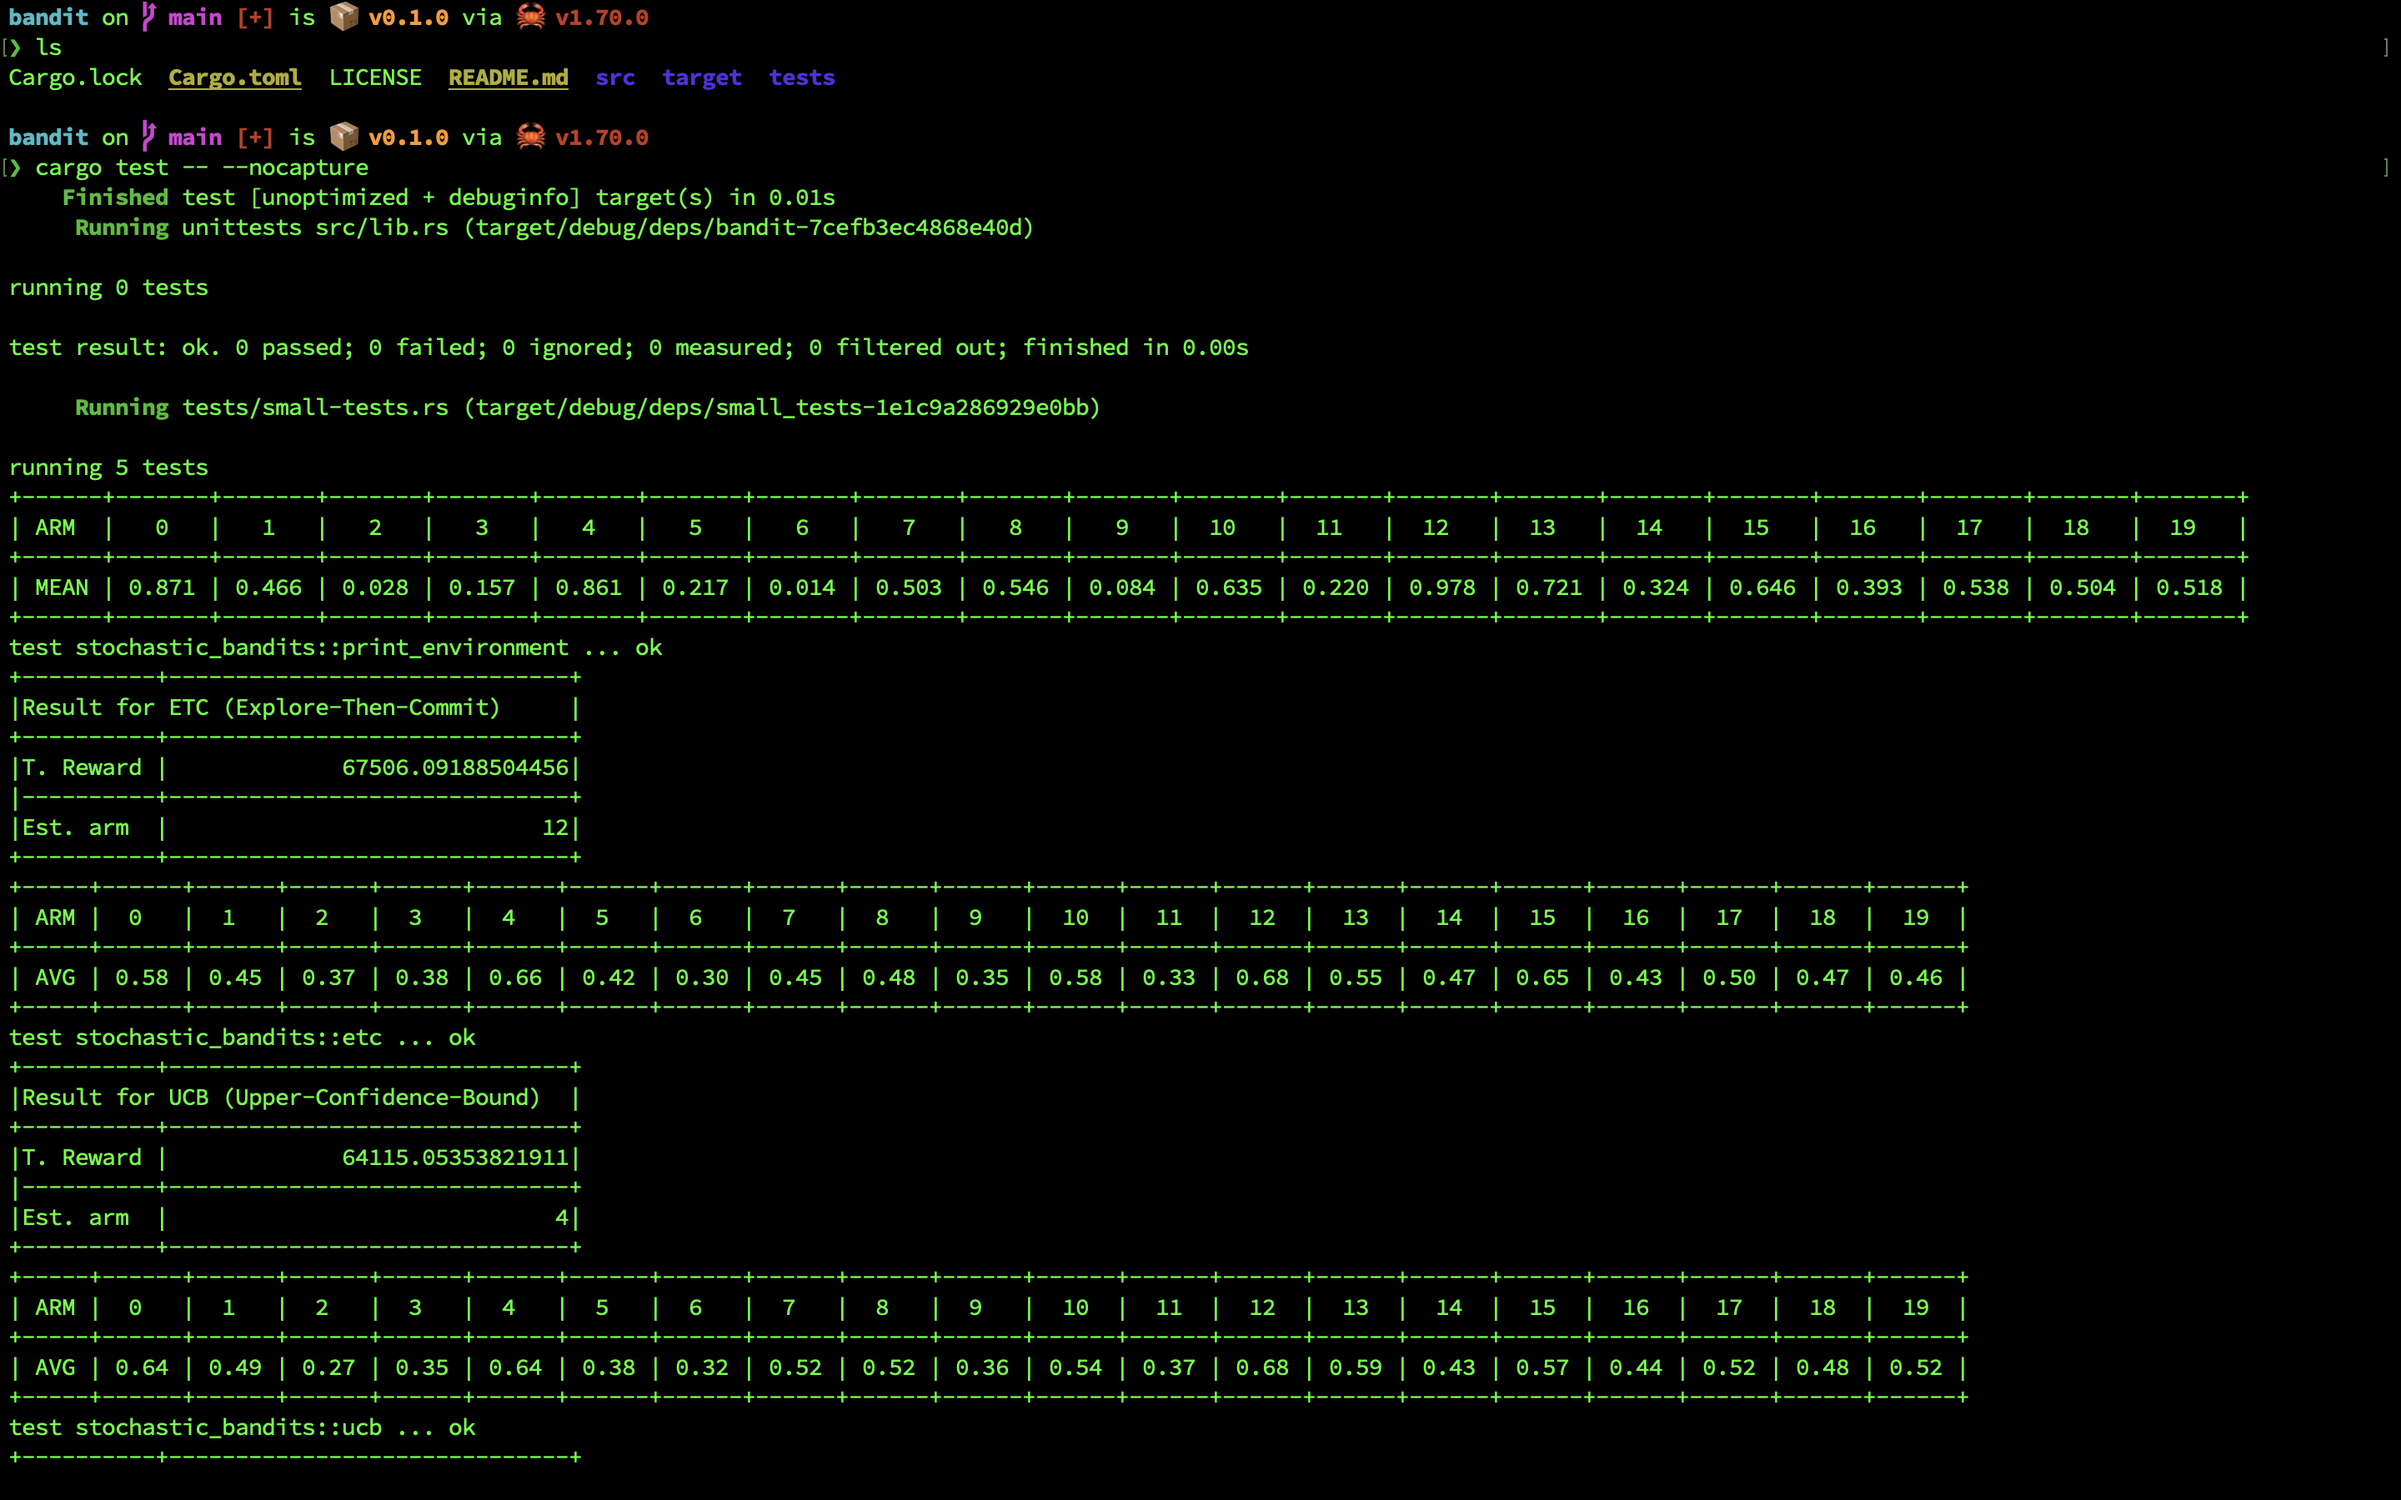
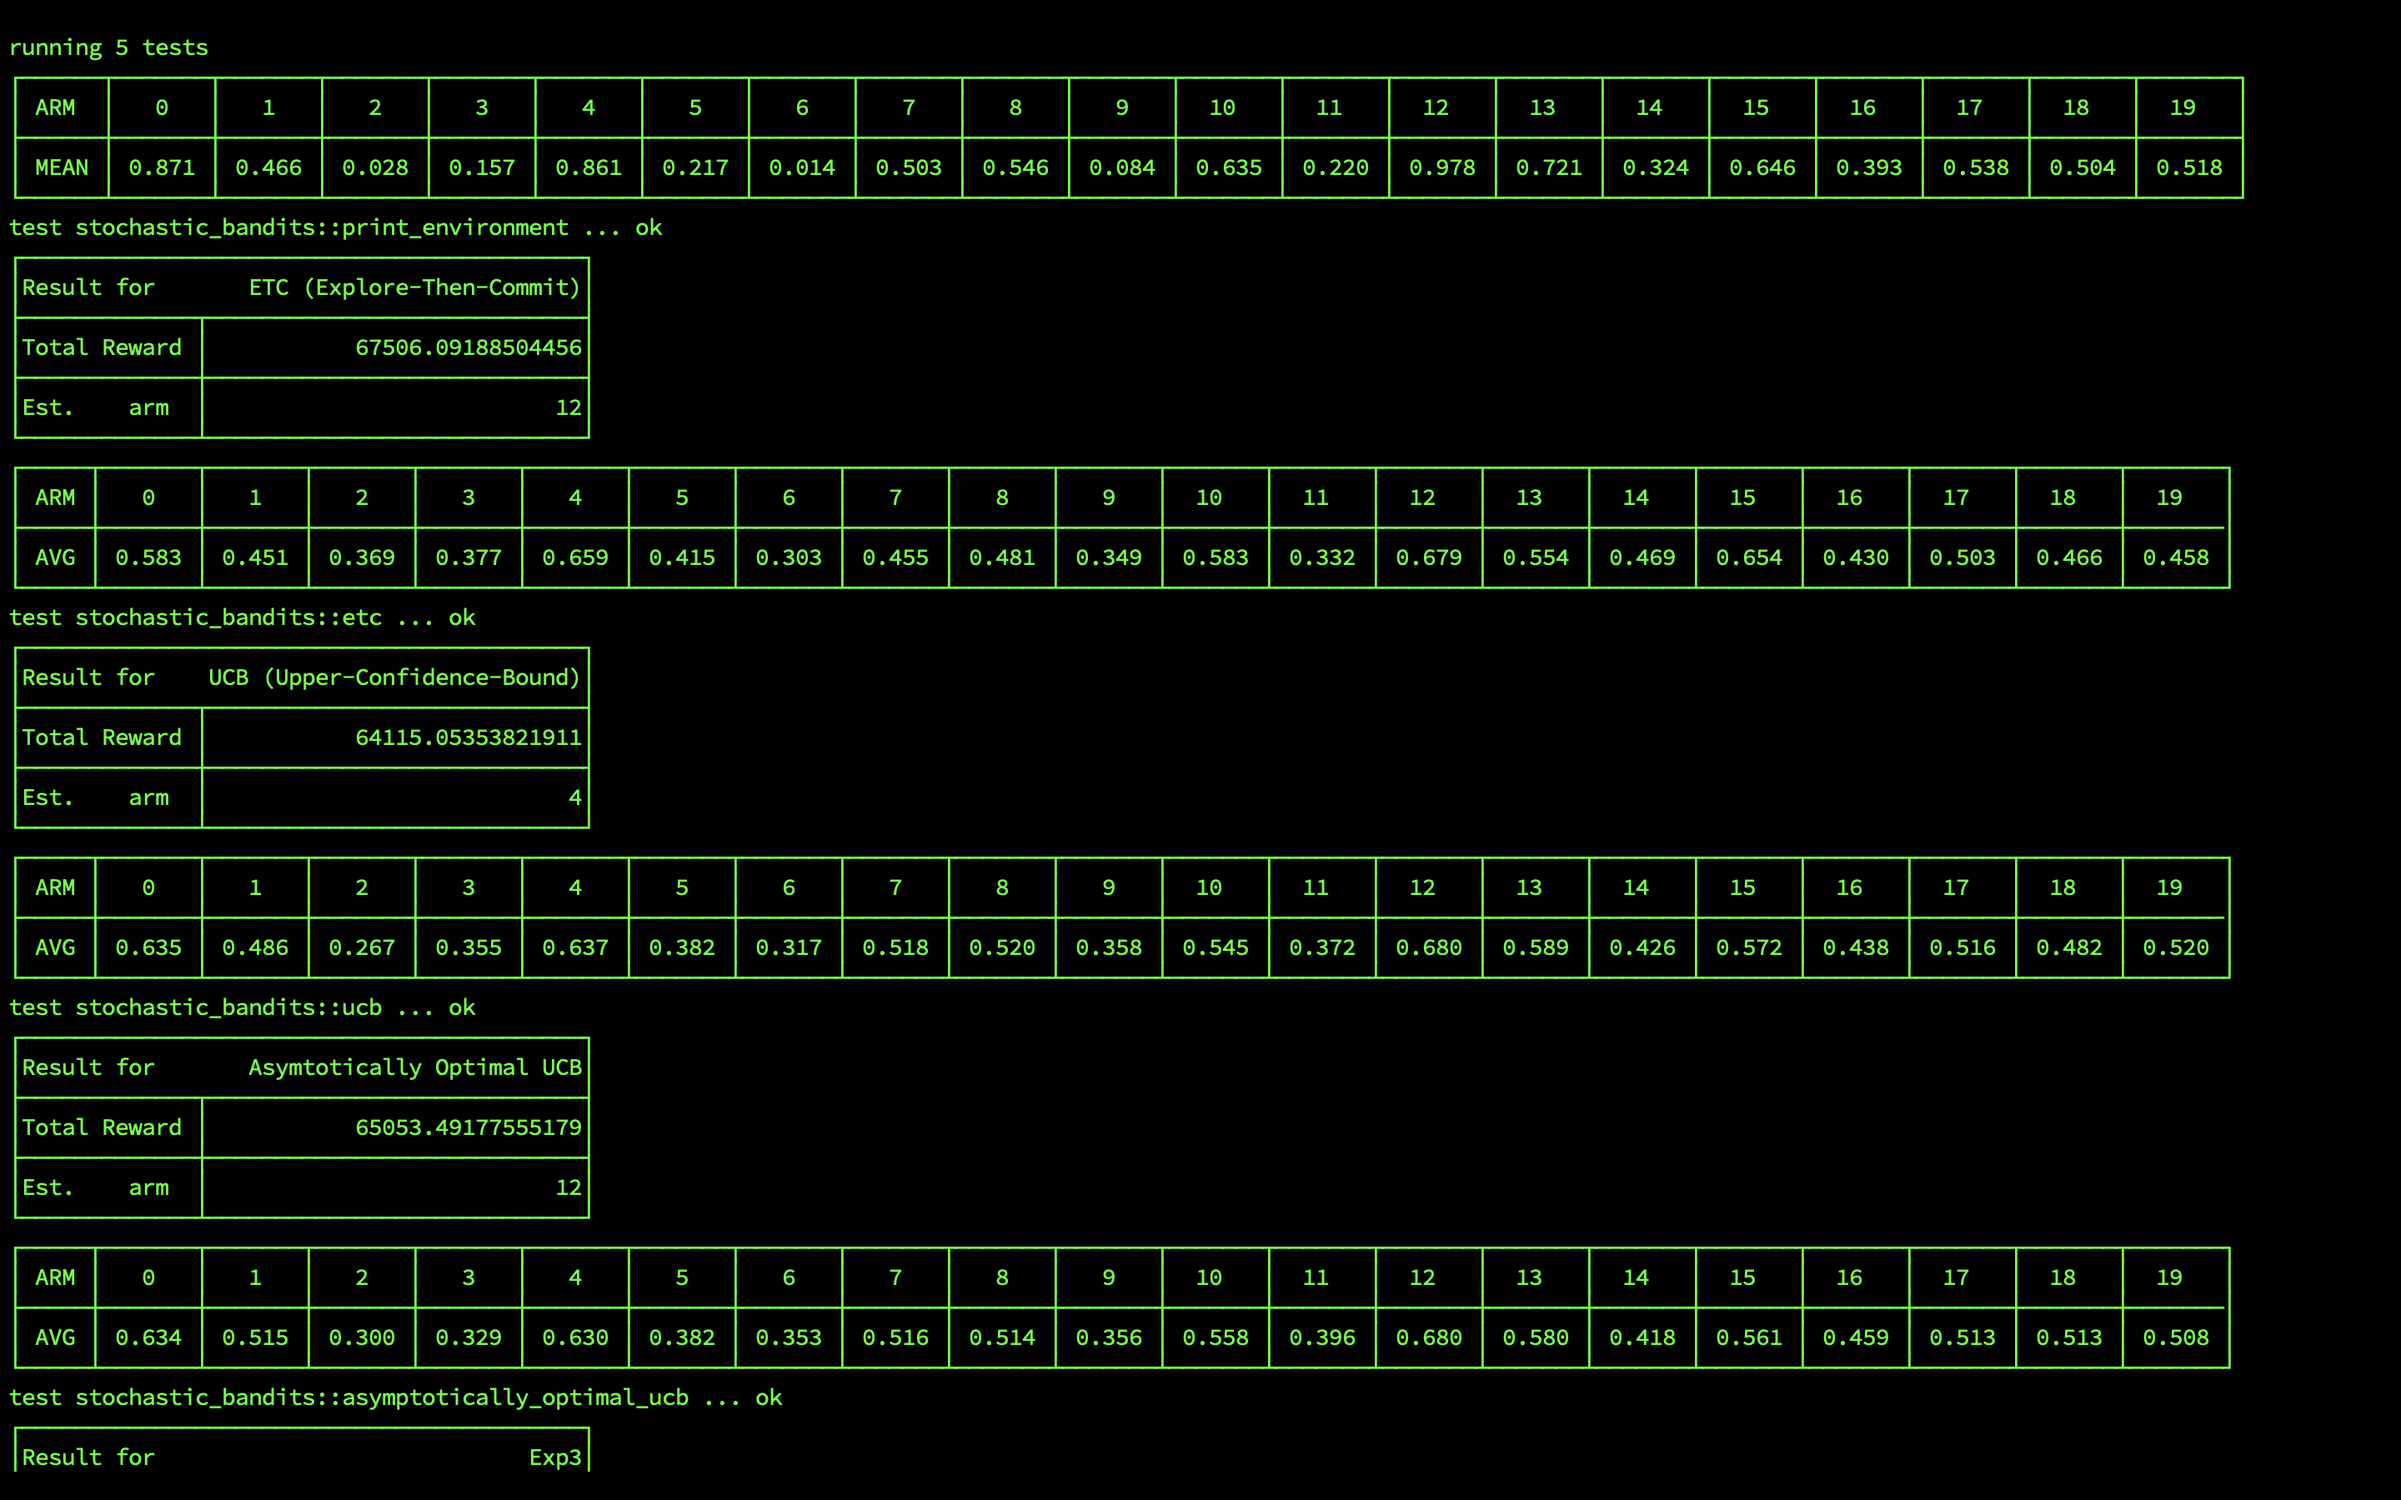
Update tablue design

Changed region(s): [[0.0, 0.0, 0.9375, 0.9956], [0.9062, 0.0622, 0.9375, 0.1244], [0.5, 0.2178, 0.5312, 0.2489]]

diff --git a/src/common.rs b/src/common.rs
@@ -122,22 +122,28 @@ impl Arms {
     /// Prints the empirical mean reward for each arm.
     pub fn summary(&self) {
         let n_arms = self.arms.len();
-        let header = (0..n_arms).map(|k| format!(" {k: ^4} "))
+        let header = (0..n_arms).map(|k| format!(" {k: ^5} "))
             .collect::<Vec<_>>()
-            .join("|");
+            .join("│");
 
-        let border = (0..n_arms).map(|_| "------")
-            .collect::<Vec<_>>()
-            .join("+");
         let content = self.empirical_means()
-            .map(|mean| format!(" {mean: >1.2} "))
+            .map(|mean| format!(" {mean: >1.3} "))
             .collect::<Vec<_>>()
-            .join("|");
-        println!("+-----+{border}+");
-        println!("| ARM |{header}|");
-        println!("+-----+{border}+");
-        println!("| AVG |{content}|");
-        println!("+-----+{border}+");
+            .join("│");
+        let toprule = (0..n_arms).map(|_| "───────")
+            .collect::<Vec<_>>()
+            .join("┬");
+        let midrule = (0..n_arms).map(|_| "───────")
+            .collect::<Vec<_>>()
+            .join("┼");
+        let botrule = (0..n_arms).map(|_| "───────")
+            .collect::<Vec<_>>()
+            .join("┴");
+        println!("┌─────┬{toprule}┐");
+        println!("│ ARM │{header:}│");
+        println!("├─────┼{midrule}│");
+        println!("│ AVG │{content}│");
+        println!("└─────┴{botrule}┘");
     }
 }
 

diff --git a/src/protocol.rs b/src/protocol.rs
@@ -1,7 +1,7 @@
 use crate::{Player, Environment};
 
 
-const WIDTH: usize = 30;
+const WIDTH: usize = 28;
 
 
 /// The bandit protocol.
@@ -19,16 +19,16 @@ pub fn run<P, E>(mut player: P, mut environment: E, horizon: usize)
     let cumulative_reward = player.cumulative_reward();
     let next_arm = player.choose(horizon+1);
 
-    let header = format!("Result for {name: <WIDTH$}");
-    println!("+----------+{:-<WIDTH$}+", "");
-    println!("|{header}|");
-    println!("+----------+{:-<WIDTH$}+", "");
-    let line = format!("T. Reward |{cumulative_reward: >WIDTH$}");
-    println!("|{line: <WIDTH$}|");
-    println!("|----------+{:-<WIDTH$}+", "");
-    let line = format!("Est. arm  |{next_arm: >WIDTH$}");
-    println!("|{line: <WIDTH$}|");
-    println!("+----------+{:-<WIDTH$}+", "");
+    let header = format!("Result for    {name: >WIDTH$}");
+    println!("┌──────────────{:─<WIDTH$}┐", "");
+    println!("│{header}│");
+    println!("├─────────────┬{:─<WIDTH$}┤", "");
+    let line = format!("Total Reward │{cumulative_reward: >WIDTH$}");
+    println!("│{line: <WIDTH$}│");
+    println!("├─────────────┼{:─<WIDTH$}┤", "");
+    let line = format!("Est.    arm  │{next_arm: >WIDTH$}");
+    println!("│{line: <WIDTH$}│");
+    println!("└─────────────┴{:─<WIDTH$}┘", "");
 
 
     player.arms().summary();

diff --git a/src/environment/subgaussian.rs b/src/environment/subgaussian.rs
@@ -104,20 +104,26 @@ impl SubGaussian {
         let n_arms = self.distributions.len();
         let header = (0..n_arms).map(|k| format!(" {k: ^5} "))
             .collect::<Vec<_>>()
-            .join("|");
+            .join("│");
 
-        let border = (0..n_arms).map(|_| "-------")
+        let toprule = (0..n_arms).map(|_| "───────")
             .collect::<Vec<_>>()
-            .join("+");
+            .join("┬");
+        let midrule = (0..n_arms).map(|_| "───────")
+            .collect::<Vec<_>>()
+            .join("┼");
+        let botrule = (0..n_arms).map(|_| "───────")
+            .collect::<Vec<_>>()
+            .join("┴");
         let means = self.means();
         let content = means.iter().map(|m| format!(" {m: >1.3} "))
             .collect::<Vec<_>>()
-            .join("|");
-        println!("+------+{border}+");
-        println!("| ARM  |{header}|");
-        println!("+------+{border}+");
-        println!("| MEAN |{content}|");
-        println!("+------+{border}+");
+            .join("│");
+        println!("┌──────┬{toprule}┐");
+        println!("│ ARM  │{header:}│");
+        println!("├──────┼{midrule}┤");
+        println!("│ MEAN │{content}│");
+        println!("└──────┴{botrule}┘");
     }
 }
 

diff --git a/src/player/exp3ix.rs b/src/player/exp3ix.rs
@@ -9,15 +9,15 @@ use rand::distributions::{Distribution, Uniform};
 use std::cell::RefCell;
 
 
-/// A struct that builds `Exp3`.
-pub struct Exp3Builder {
+/// A struct that builds `Exp3Ix`.
+pub struct Exp3IxBuilder {
     seed: u64,
     n_arms: usize,
     horizon: usize,
 }
 
 
-impl Exp3Builder {
+impl Exp3IxBuilder {
     /// Construct a new instance of `Self`.
     pub fn new(n_arms: usize) -> Self {
         let seed = 1234;
@@ -41,14 +41,14 @@ impl Exp3Builder {
 
 
     /// Build a new instance of `Self`.
-    pub fn build(self) -> Exp3 {
-        Exp3::new(self.seed, self.n_arms, self.horizon)
+    pub fn build(self) -> Exp3Ix {
+        Exp3Ix::new(self.seed, self.n_arms, self.horizon)
     }
 }
 
 
 /// The UCB algorithm.
-pub struct Exp3 {
+pub struct Exp3Ix {
     arms: Arms,
     rng: RefCell<StdRng>,
     distribution: Uniform<f64>,
@@ -59,8 +59,8 @@ pub struct Exp3 {
 }
 
 
-impl Exp3 {
-    /// Construct a new instance of `Exp3`.
+impl Exp3Ix {
+    /// Construct a new instance of `Exp3Ix`.
     pub(self) fn new(
         seed: u64,
         n_arms: usize,
@@ -92,9 +92,9 @@ impl Exp3 {
 }
 
 
-impl Player for Exp3 {
+impl Player for Exp3Ix {
     fn name(&self) -> &str {
-        "Exp3"
+        "Exp3-IX"
     }
 
 

diff --git a/src/player/asymptotically_optimal_ucb.rs b/src/player/asymptotically_optimal_ucb.rs
@@ -16,7 +16,7 @@ impl AsymptoticallyOptimalUcbBuilder {
     }
 
 
-    /// Build a new instance of `Etc`.
+    /// Build a new instance of `Self`.
     pub fn build(self) -> AsymptoticallyOptimalUcb {
         AsymptoticallyOptimalUcb::new(self.n_arms)
     }
@@ -30,7 +30,7 @@ pub struct AsymptoticallyOptimalUcb {
 
 
 impl AsymptoticallyOptimalUcb {
-    /// Construct a new instance of `Etc`.
+    /// Construct a new instance of `Self`.
     pub(self) fn new(
         n_arms: usize,
     ) -> Self

diff --git a/src/player/ucb.rs b/src/player/ucb.rs
@@ -24,7 +24,7 @@ impl UcbBuilder {
     }
 
 
-    /// Build a new instance of `Etc`.
+    /// Build a new instance of `Self`.
     pub fn build(self) -> Ucb {
         Ucb::new(self.n_arms, self.confidence)
     }
@@ -39,7 +39,7 @@ pub struct Ucb {
 
 
 impl Ucb {
-    /// Construct a new instance of `Etc`.
+    /// Construct a new instance of `Ucb`.
     pub(self) fn new(
         n_arms: usize,
         confidence: f64,

diff --git a/src/player.rs b/src/player.rs
@@ -4,6 +4,7 @@ pub mod etc;
 pub mod ucb;
 pub mod asymptotically_optimal_ucb;
 pub mod exp3;
+pub mod exp3ix;
 
 
 pub use player_trait::Player;
@@ -14,3 +15,4 @@ pub use asymptotically_optimal_ucb::{
     AsymptoticallyOptimalUcbBuilder,
 };
 pub use exp3::{Exp3, Exp3Builder};
+pub use exp3ix::{Exp3Ix, Exp3IxBuilder};
